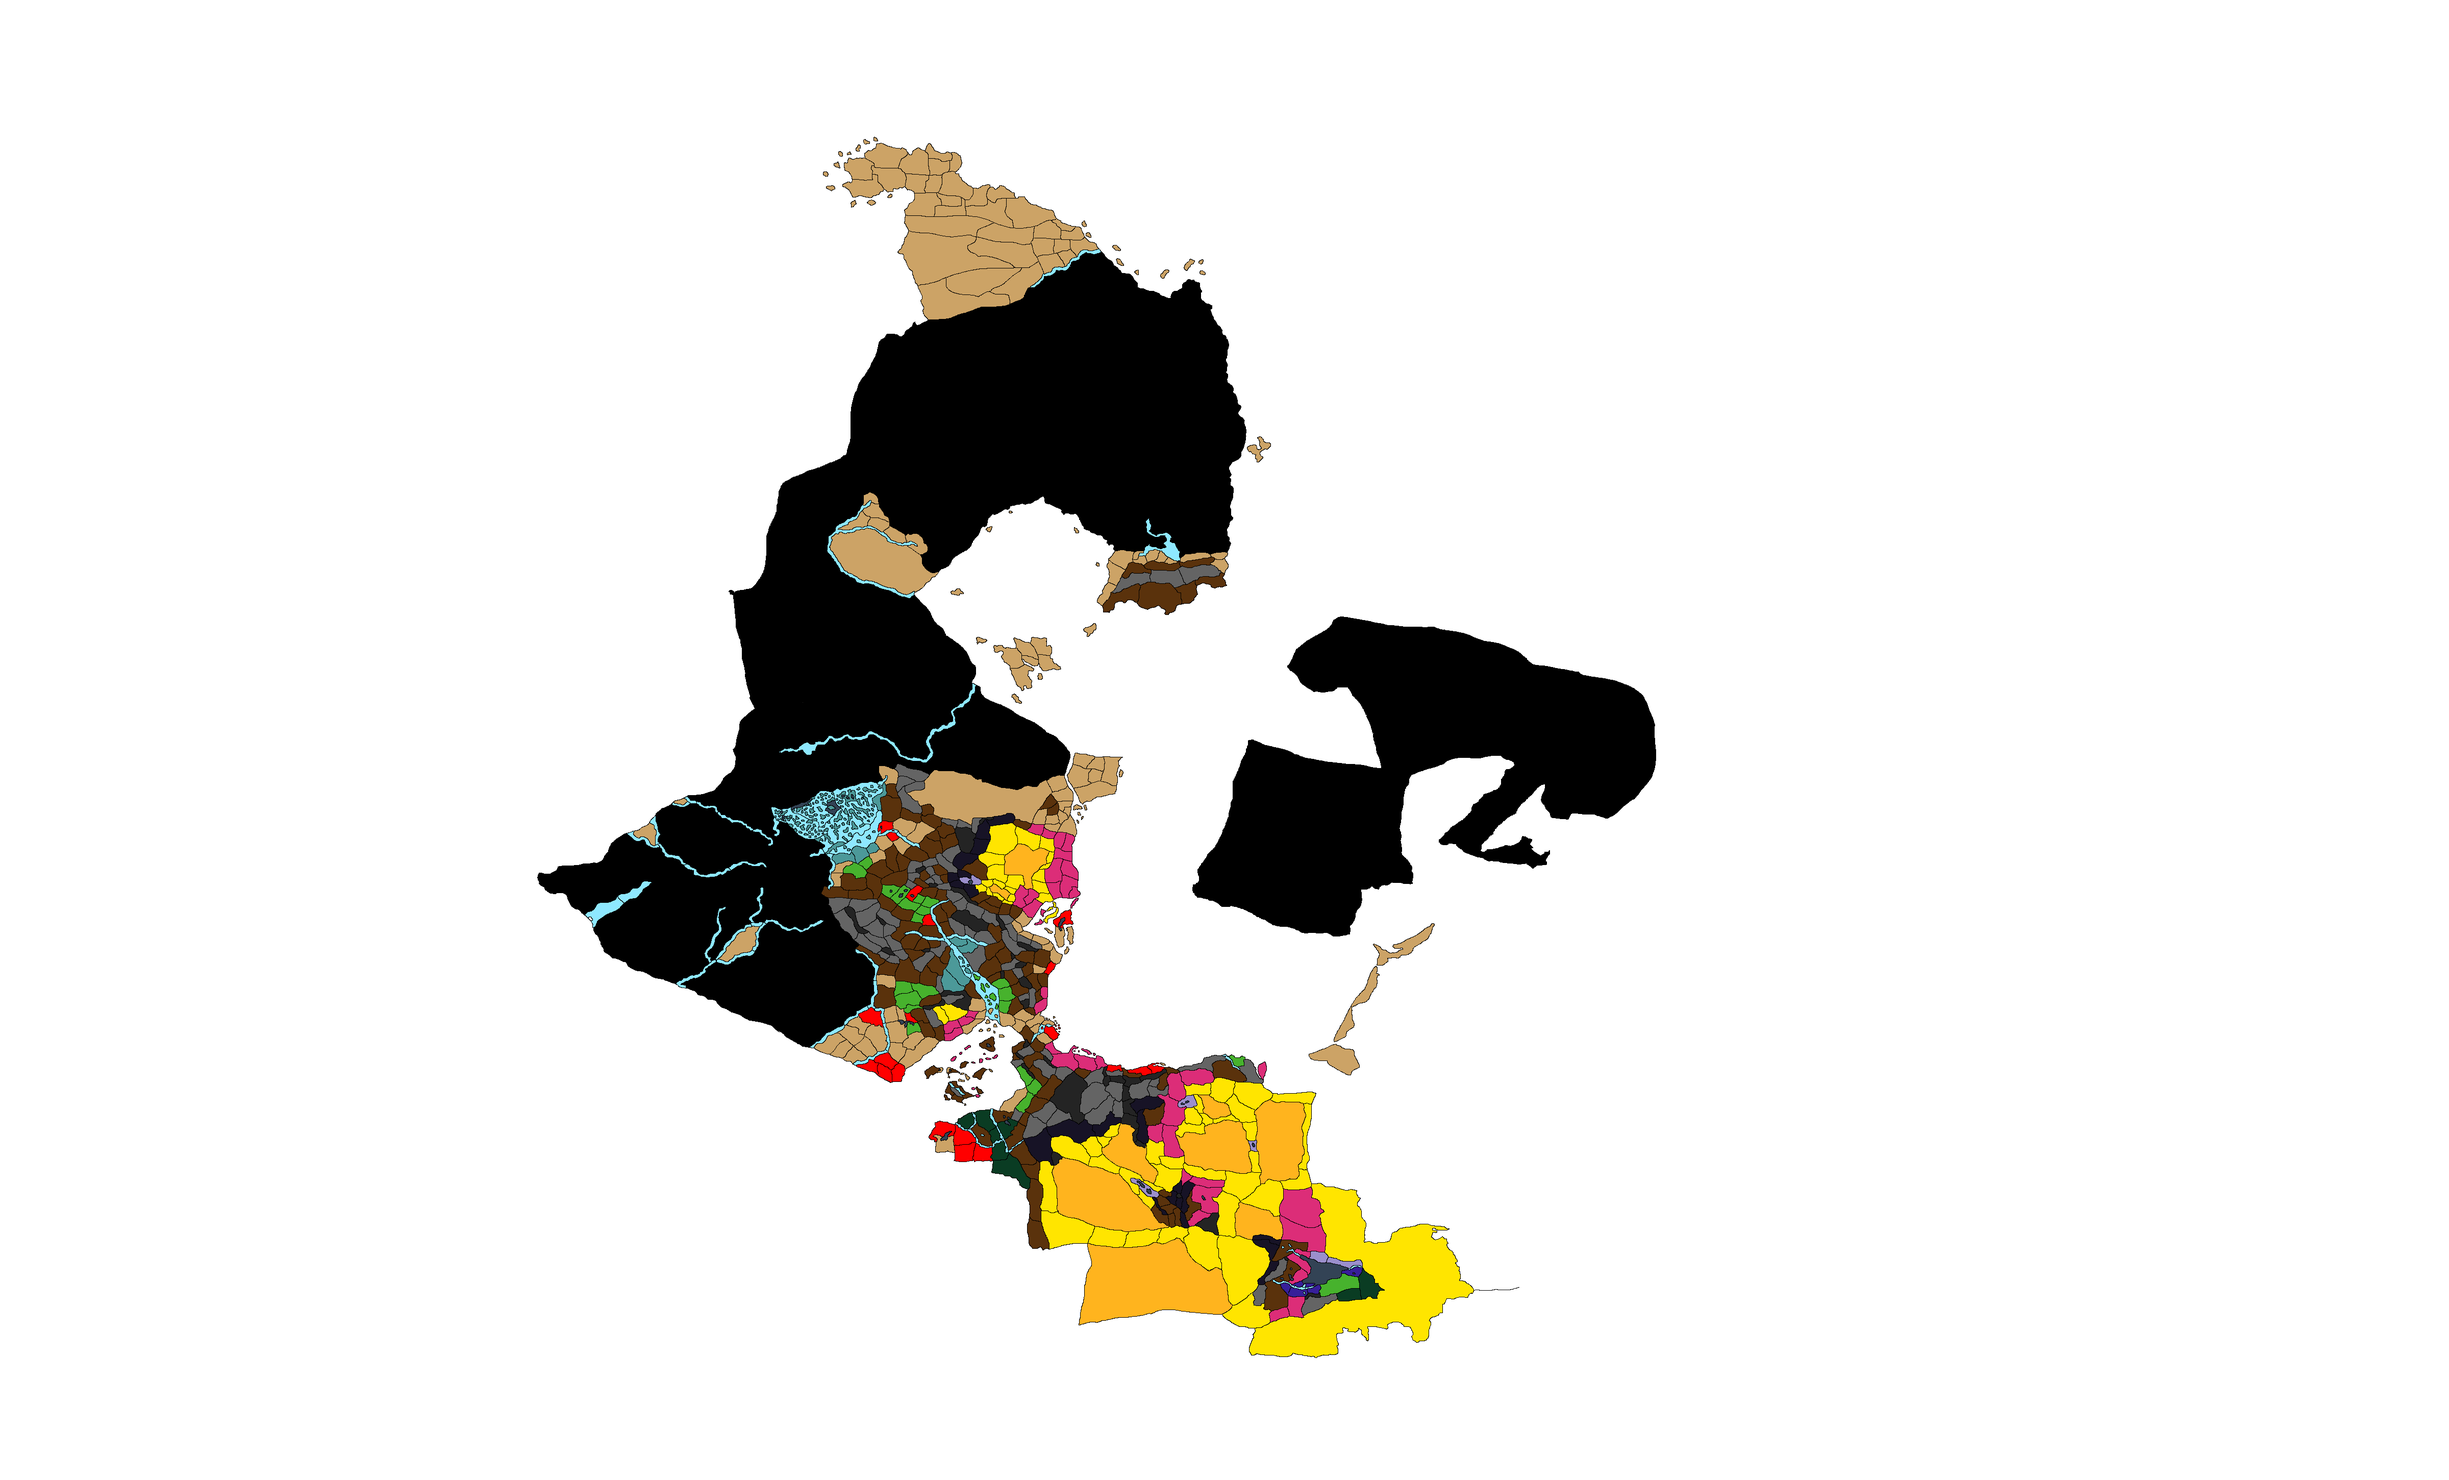
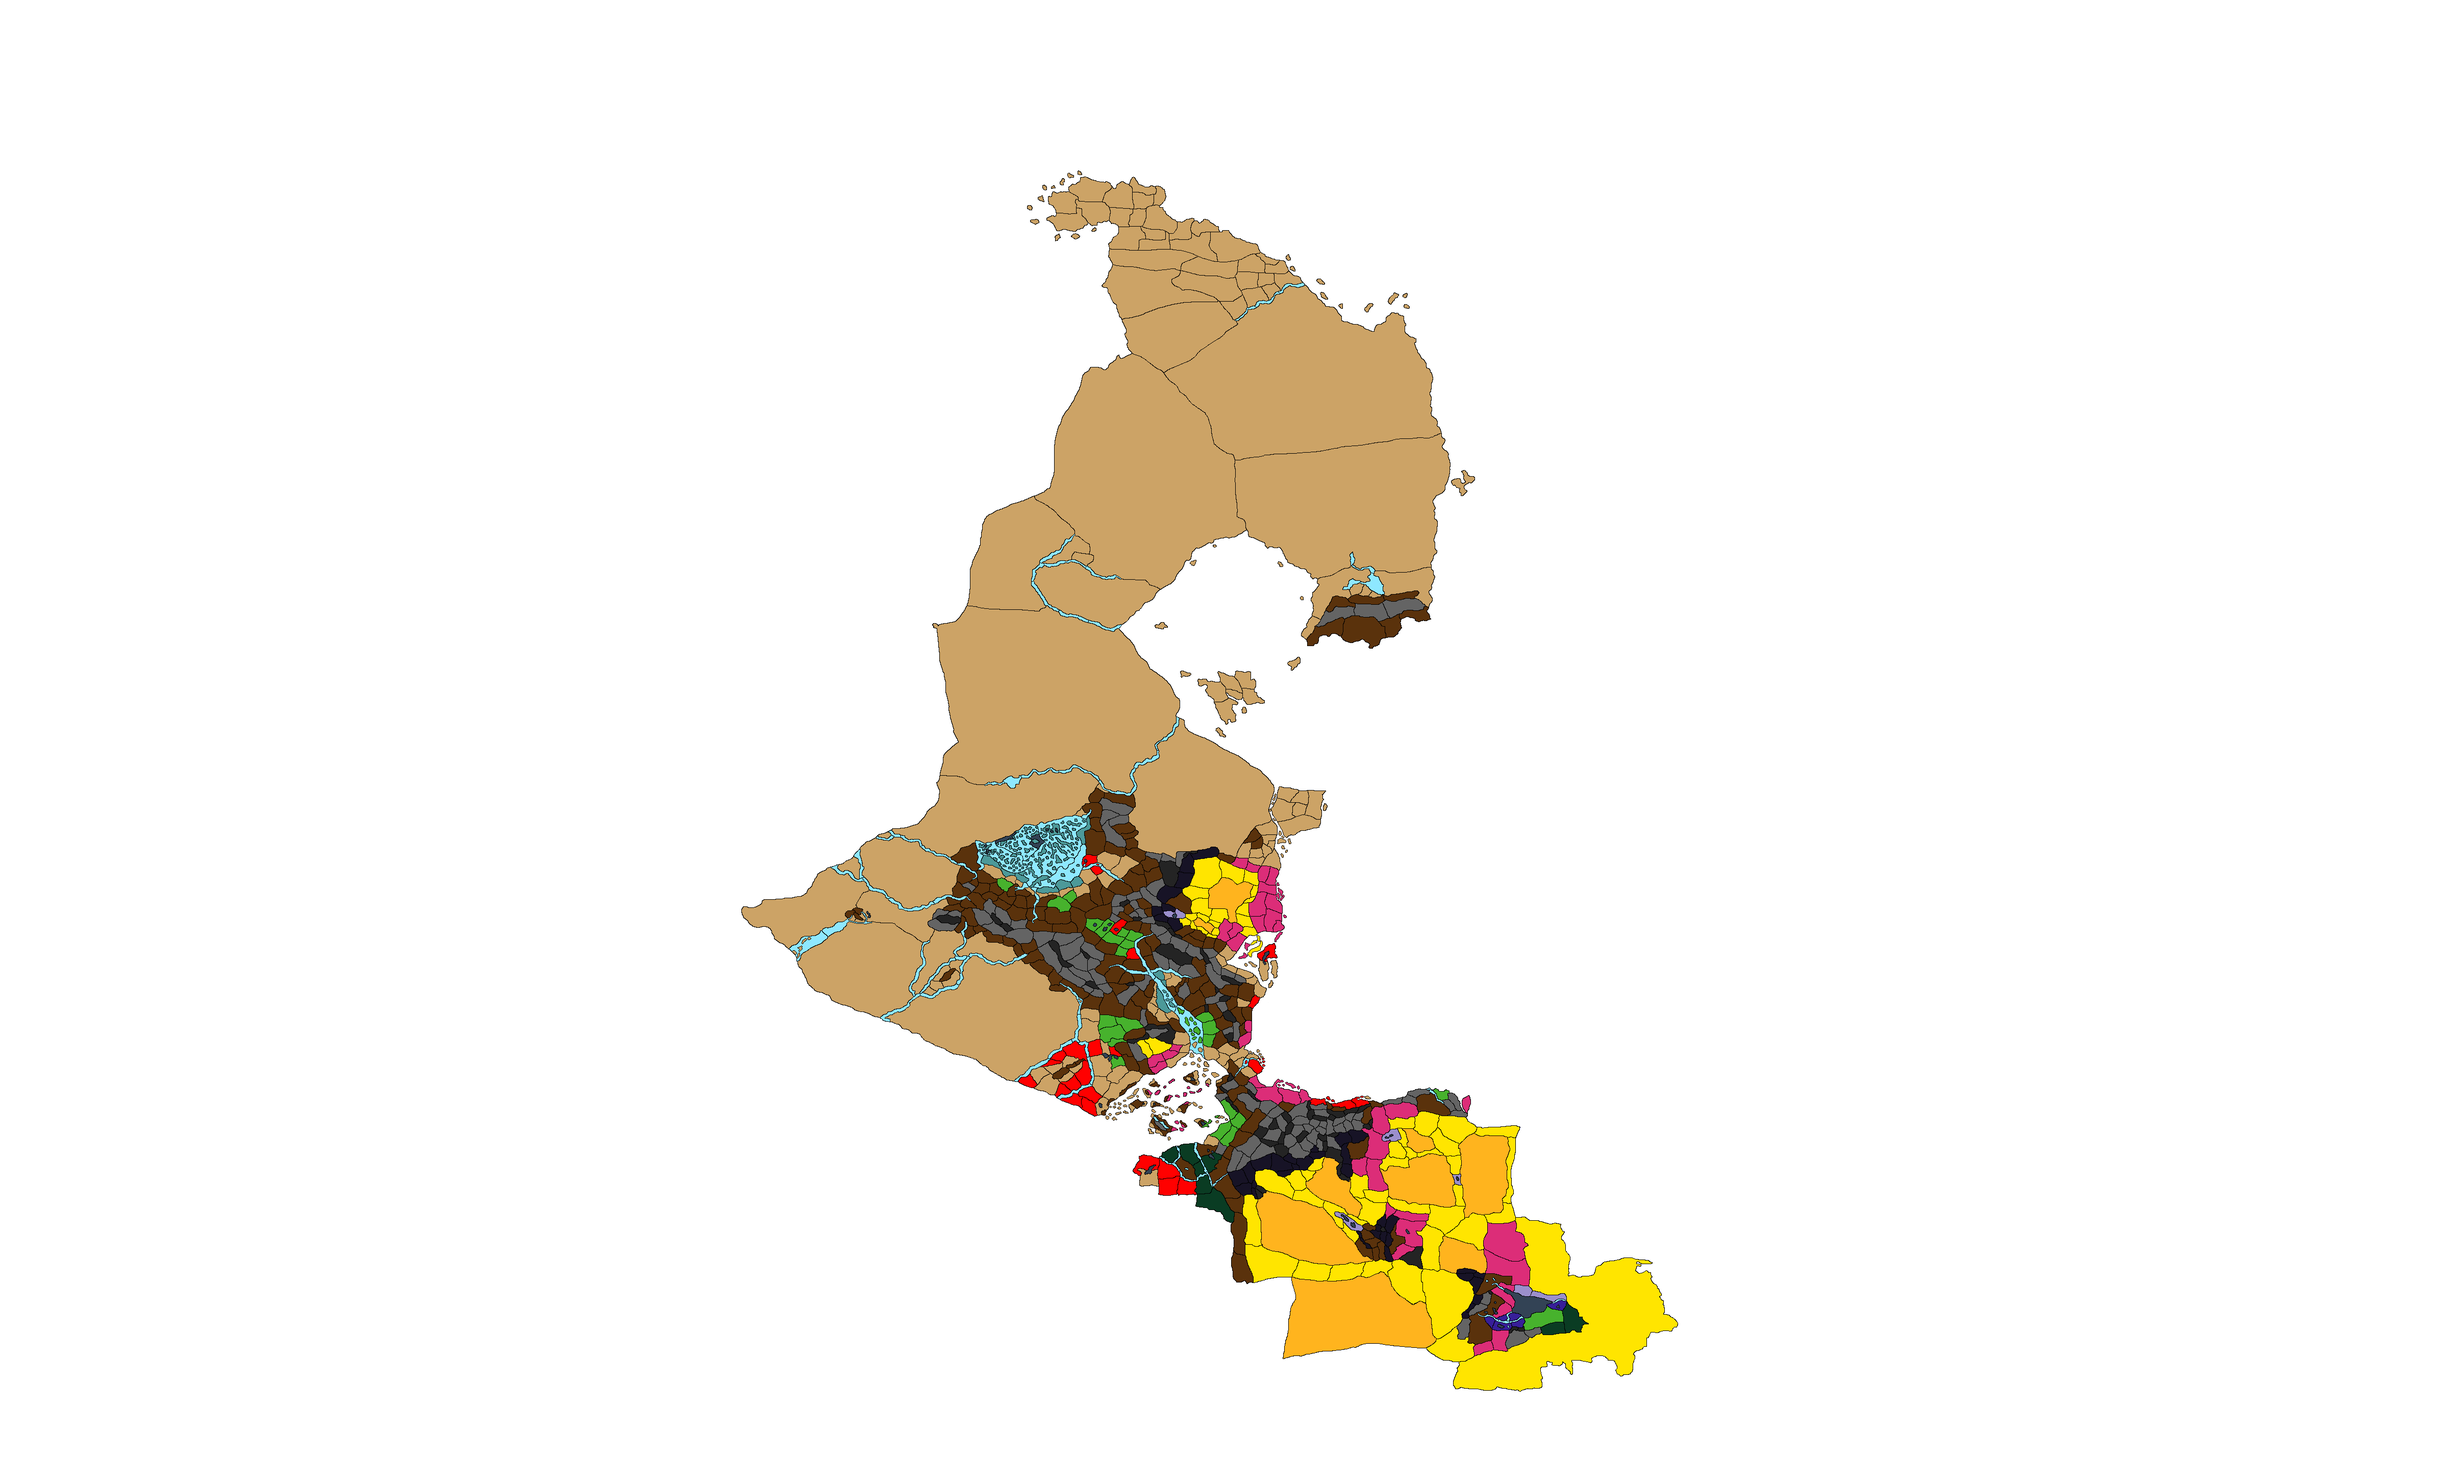
Play around with generation

Changed region(s): [[0.2188, 0.0931, 0.6875, 0.9621]]

diff --git a/main.py b/main.py
@@ -40,7 +40,6 @@ def mix_in_noise(luminosity, input_noise, mode):
     hill_height = config.find_luminosity_by_name("hill")
     plain_height = config.find_luminosity_by_name("plain")
 
-
     impassable_mountain_downward_tolerance = (impassable_mountain_height - hill_height) / 2
     mountain_upward_tolerance = impassable_mountain_height - mountain_height
     mountain_downward_tolerance = mountain_height - hill_height
@@ -52,34 +51,39 @@ def mix_in_noise(luminosity, input_noise, mode):
     res = 0
     rand_base = 1 + 0.0625 - (random.randint(0, 625) / 10000)
     if mode == "dla":
-        dla_noise = input_noise + 0.5
+        normalized_dla = (input_noise - 0.5) * 2
+        if normalized_dla > 1:
+            print("above")
+        elif normalized_dla < -1:
+            print("below")
         if impassable_mountain_height <= luminosity:
-            minimum_impassable_mountain_height = mountain_height - impassable_mountain_downward_tolerance
-            res = impassable_mountain_height * dla_noise
-            if res < minimum_impassable_mountain_height:
-                res = minimum_impassable_mountain_height
-            elif res > impassable_mountain_height + mountain_upward_tolerance:
-                res = impassable_mountain_height + mountain_upward_tolerance
+            upheight = impassable_mountain_height / 4
+            downheight = impassable_mountain_height - hill_height
+            if normalized_dla > 0:
+                res = upheight * normalized_dla
+            else:
+                res = downheight * normalized_dla
+            res += impassable_mountain_height
         elif mountain_height <= luminosity:
-            minimum_mountain_height = mountain_height - mountain_downward_tolerance
-            res = mountain_height * dla_noise
-            if res < minimum_mountain_height:
-                res = minimum_mountain_height
-            elif res > mountain_height + mountain_upward_tolerance:
-                res = mountain_height + mountain_upward_tolerance
+            upheight = impassable_mountain_height - mountain_height
+            downheight = mountain_height - plain_height
+            if normalized_dla > 0:
+                res = upheight * normalized_dla
+            else:
+                res = downheight * normalized_dla
+            res += mountain_height
         elif hill_height <= luminosity < mountain_height:
-            res = hill_height * dla_noise
-            if res < hill_height - hill_downward_tolerance:
-                res = hill_height - hill_downward_tolerance
-            elif res > hill_height + hill_upward_tolerance:
-                res = hill_height + hill_upward_tolerance
+            upheight = mountain_height - hill_height
+            downheight = hill_height - floodplain_height
+            if normalized_dla > 0:
+                res = upheight * normalized_dla
+            else:
+                res = downheight * normalized_dla
+            res += hill_height
         elif floodplain_height <= luminosity < hill_height:
-            normalized_dla_height = plain_height * dla_noise
-            res = plain_height + normalized_dla_height
-            if res < floodplain_height:
-                res = floodplain_height
-            elif res > plain_height + plain_upward_tolerance:
-                res = plain_height + plain_upward_tolerance
+            upheight = (hill_height - floodplain_height) / 2
+            plain_center_height = floodplain_height + upheight
+            res = plain_center_height + (upheight * normalized_dla)
     elif mode == "perlin":
         if mountain_height <= luminosity:
             noise = mountain_upward_tolerance * input_noise
@@ -134,7 +138,7 @@ def replace_color(pixel_colors, width, convoluted_perlin_noise, dla_arr):
         pixel_no_alpha = tuple(pixel[:3])
 
         perlin_noise_at_index = convoluted_perlin_noise[i]
-        dla_at_index = dla_arr[i] + 0.25
+        dla_at_index = dla_arr[i]
 
         if isinstance(pixel, tuple) and len(pixel) == 4:
             if pixel[0] == pixel[1] == pixel[2] == 0:
@@ -142,9 +146,6 @@ def replace_color(pixel_colors, width, convoluted_perlin_noise, dla_arr):
                     replaced_colors.append(cast_to_16_bit(pixel[0]))
                 else:
                     replaced_colors.append(cast_to_16_bit(5))
-                #lum = get_average_color(pixel_colors, i, width)
-                #lum = mix_in_noise(lum, perlin_noise_at_index, "perlin")
-                #replaced_colors.append(cast_to_16_bit(lum))
             elif config.find_luminosity_by_rgb(pixel_no_alpha):
                 lum = config.find_luminosity_by_rgb(pixel_no_alpha)
                 if dla_at_index > 0:
@@ -159,8 +160,6 @@ def replace_color(pixel_colors, width, convoluted_perlin_noise, dla_arr):
 
     print("Averaging luminosities")
     for i, luminosity in enumerate(replaced_colors):
-        perlin_noise_at_index = convoluted_perlin_noise[i]
-        dla_at_index = dla_arr[i]
         if luminosity == 0:
             avg_l = get_average_luminosity(replaced_colors, i, width)
             replaced_colors[i] = avg_l
@@ -235,12 +234,12 @@ if __name__ == "__main__":
 
     pixel_colors, width, height = get_pixel_colors(input_image_path)
     print("Running noise generator")
-    noise_generator.run(input_image_path, False)
+    #noise_generator.run(input_image_path, False)
     print("Reading noise map")
     perlin_noise = np.fromfile(noise_generator.output_folder / f"perlin_noise_{width}_{height}.noise", dtype=float)
 
     print("Running cell divider")
-    cell_divider.run(input_image_path)
+    #cell_divider.run(input_image_path)
     print("Running DLA")
     diffusion_limited_aggregator.run(input_image_path, False)
 

diff --git a/config.py b/config.py
@@ -3,22 +3,10 @@ from terrain import Terrain
 land_terrains = [
     Terrain("plain", (204, 163, 102), 20),
     Terrain("farmland", (255, 0, 0), 20),
-    Terrain("hill", (90, 50, 12), 40),
-    Terrain("mountain", (100, 100, 100), 80),
-    Terrain("desert mountain", (23, 19, 38), 80),
-    Terrain("impassable mountain", (36, 36, 36), 110),
-    Terrain("desert", (255, 229, 0), 20),
-    Terrain("oasis", (155, 143, 204), 18),
-    Terrain("jungle", (10, 60, 35), 21),
-    Terrain("forest", (71, 178, 45), 21),
-    Terrain("taiga", (46, 153, 89), 21),
-    Terrain("wetland", (76, 153, 153), 18),
-    Terrain("steppe", (200, 100, 25), 20),
-    Terrain("floodplain", (55, 31, 153), 18),
-    Terrain("dryland", (220, 45, 120), 20),
-]
-
-all_terrains = land_terrains + [
+    Terrain("hill", (90, 50, 12), 30),
+    Terrain("mountain", (100, 100, 100), 60),
+    Terrain("desert mountain", (23, 19, 38), 55),
+    Terrain("impassable mountain", (36, 36, 36), 75),
     Terrain("desert", (255, 229, 0), 20),
     Terrain("oasis", (155, 143, 204), 18),
     Terrain("jungle", (10, 60, 35), 21),
@@ -29,6 +17,9 @@ all_terrains = land_terrains + [
     Terrain("floodplain", (55, 31, 153), 18),
     Terrain("dryland", (220, 45, 120), 20),
     Terrain("impassable desert", (255, 180, 30), 20),
+]
+
+all_terrains = land_terrains + [
     Terrain("sea", (68, 107, 163), 5),
     Terrain("impassable sea", (51, 67, 85), 2),
     Terrain("river", (142, 232, 255), 7)

diff --git a/diffusion_limited_aggregator.py b/diffusion_limited_aggregator.py
@@ -79,6 +79,8 @@ def generate(height, width, seed_spawn_area):
     arr = np.full((height, width), 0.5, dtype=float)
     minimum_dist_of_seeds = 0
     area_of_spawn = math.sqrt(max_fillable_pixels)
+    if area_of_spawn == 0:
+        return []
     dist_y = (height / area_of_spawn) - 1
     dist_x = (width / area_of_spawn) - 1
     if dist_y < dist_x:
